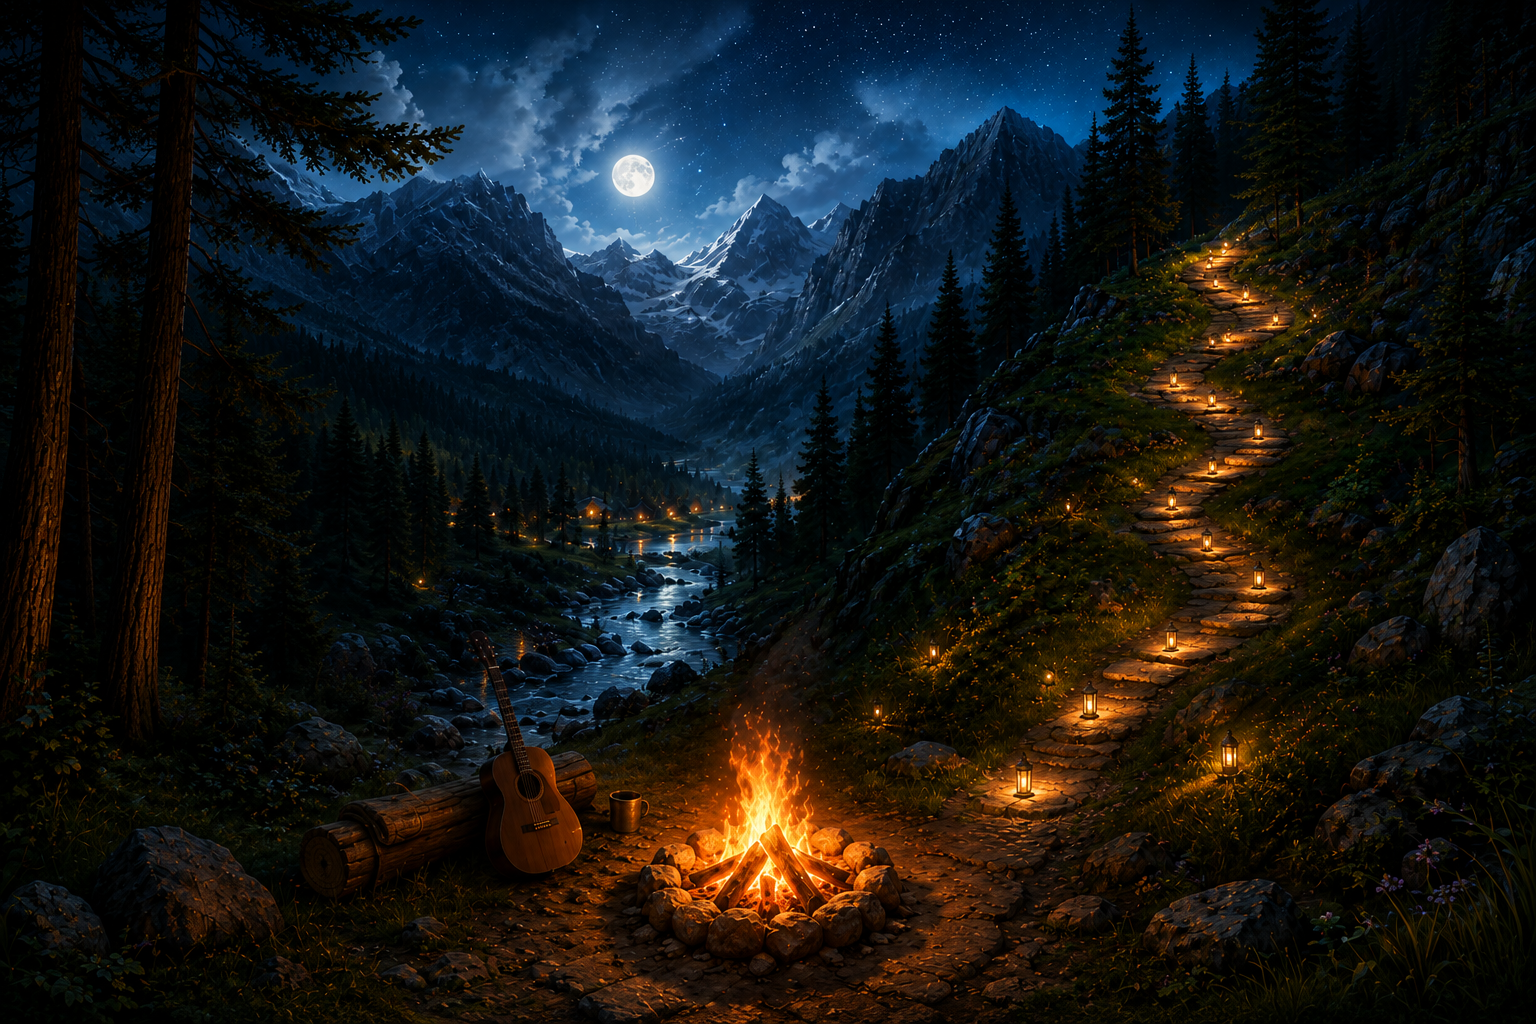
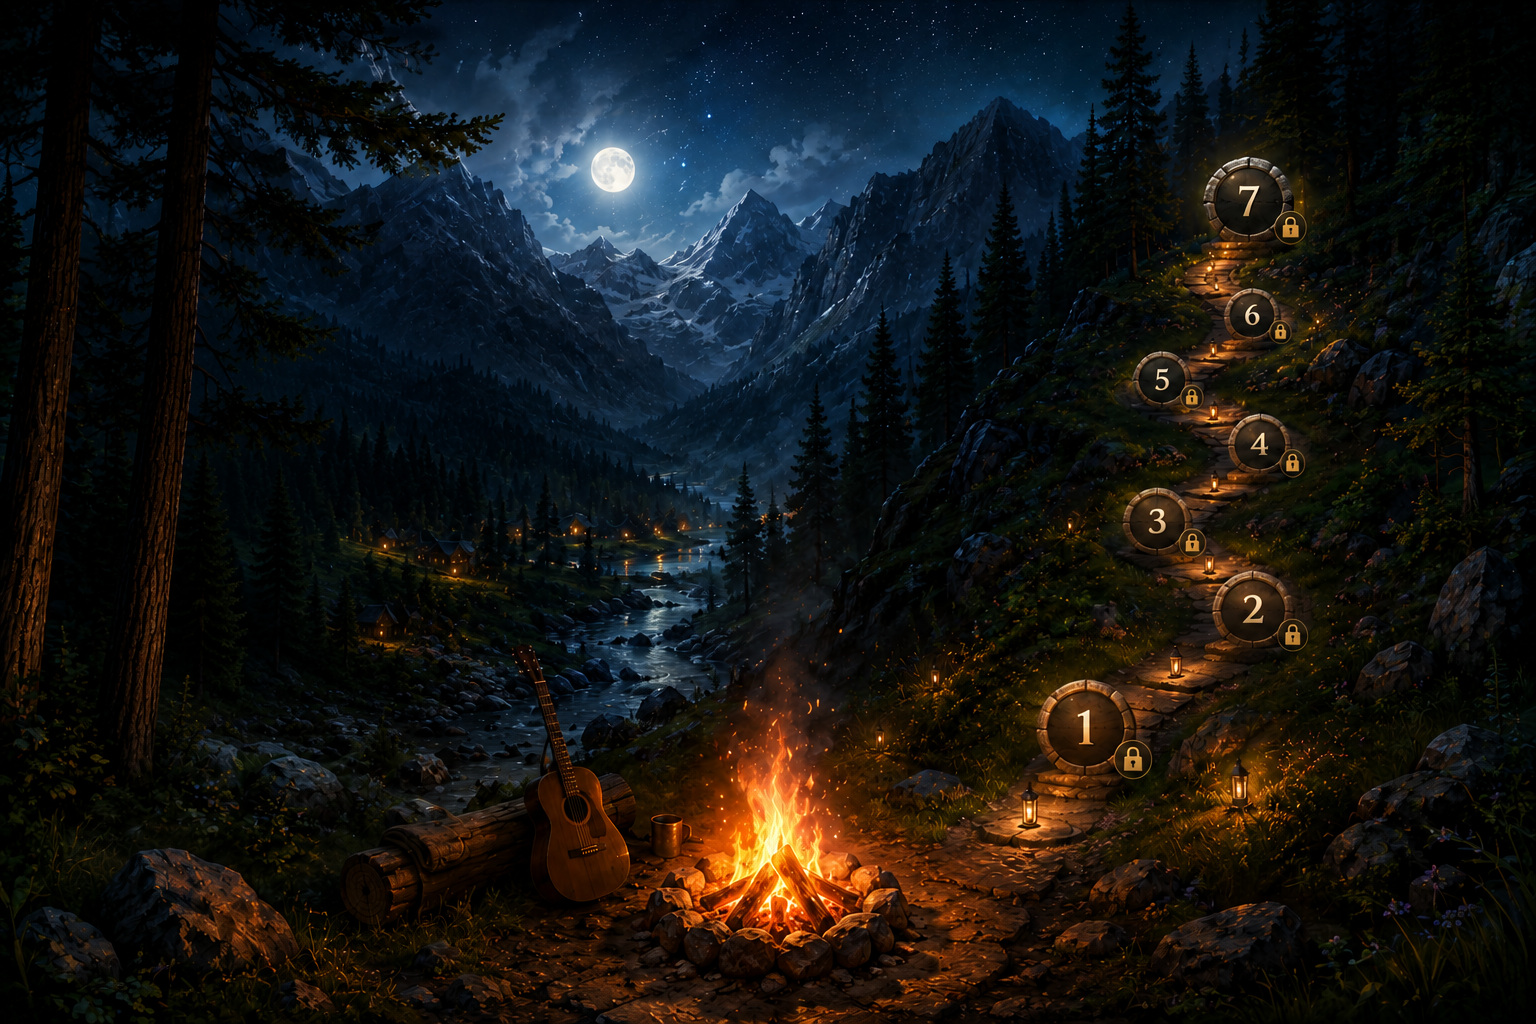
Fix Campfire Valley background

diff --git a/app/globals.css b/app/globals.css
@@ -181,8 +181,9 @@ a {
    CAMPFIRE VALLEY SCENE
    ========================================================= */
 
-.campfireScene,
-.campfire-page {
+/* CAMPFIRE VALLEY SCENE */
+
+.campfireScene {
   position: relative;
   isolation: isolate;
 
@@ -214,8 +215,7 @@ a {
   background-repeat: no-repeat;
 }
 
-.campfireScene::before,
-.campfire-page::before {
+.campfireScene::before {
   content: "";
   position: absolute;
   inset: 0;
@@ -234,8 +234,7 @@ a {
     );
 }
 
-.campfireScene::after,
-.campfire-page::after {
+.campfireScene::after {
   content: "";
   position: absolute;
   inset: auto 0 0;
@@ -252,11 +251,14 @@ a {
 
   background:
     linear-gradient(90deg, rgba(3, 10, 9, 0.34), transparent 58%),
-    radial-gradient(ellipse at center, transparent 42%, rgba(0, 0, 0, 0.27) 100%);
+    radial-gradient(
+      ellipse at center,
+      transparent 42%,
+      rgba(0, 0, 0, 0.27) 100%
+    );
 
   pointer-events: none;
 }
-
 /* =========================================================
    PAGE CONTENT
    ========================================================= */

diff --git a/app/Components/landing/CampfireScene.tsx b/app/Components/landing/CampfireScene.tsx
@@ -1,4 +1,4 @@
-import LessonPath from "./LessonPath";
+
 
 export default function CampfireScene() {
   return (
@@ -29,7 +29,7 @@ export default function CampfireScene() {
           </button>
         </section>
 
-        <LessonPath />
+        
       </div>
     </section>
   );